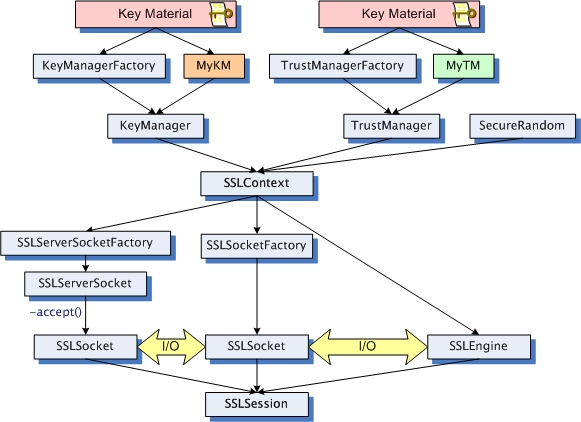
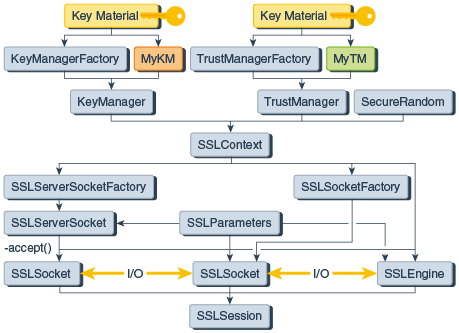
20250103

diff --git a/os/进程阻塞与唤醒实例分析.md b/os/进程阻塞与唤醒实例分析.md
@@ -1,10 +1,64 @@
 # 进程阻塞与唤醒实例分析
 {docsify-updated}
 
-我们重点来跟踪一下当进行 `read()` 调用时，如果数据不可读，进程是如何被阻塞和唤醒的。
+我们重点来跟踪一下当进行 `read()` 调用时，如果数据不可读，进程是如何被阻塞和唤醒的。基于[linux-0.01](https://www.kernel.org/pub/linux/kernel/Historic/)
+
+## PCB的内核数据结构-task_struct
+```
+struct task_struct {
+/* these are hardcoded - don't touch */
+	long state;	/* -1 unrunnable, 0 runnable, >0 stopped */
+	long counter;
+	long priority;
+	long signal;
+	fn_ptr sig_restorer;
+	fn_ptr sig_fn[32];   //signal handler pointer
+/* various fields */
+	int exit_code;
+	unsigned long end_code,end_data,brk,start_stack;
+	long pid,father,pgrp,session,leader;
+	unsigned short uid,euid,suid;
+	unsigned short gid,egid,sgid;
+	long alarm;
+	long utime,stime,cutime,cstime,start_time;
+	unsigned short used_math;
+/* file system info */
+	int tty;		/* -1 if no tty, so it must be signed */
+	unsigned short umask;
+	struct m_inode * pwd;
+	struct m_inode * root;
+	unsigned long close_on_exec;
+	struct file * filp[NR_OPEN];
+/* ldt for this task 0 - zero 1 - cs 2 - ds&ss */
+	struct desc_struct ldt[3];
+/* tss for this task */
+	struct tss_struct tss;
+};
+```
+
+内核定义了几种状态：
+```
+#define TASK_RUNNING		0
+#define TASK_INTERRUPTIBLE	1
+#define TASK_UNINTERRUPTIBLE	2
+#define TASK_ZOMBIE		3
+#define TASK_STOPPED		4
+```
+
+| 特性	| TASK_INTERRUPTIBLE | TASK_UNINTERRUPTIBLE |
+| :---        |    :----:   |          ---: |
+|信号响应 |	可以响应信号并被唤醒 |	不响应信号（Ctrl-C无效） |
+|唤醒方式 |	信号或等待的事件发生 |	仅等待的事件发生 |
+|适用场景 |	用户交互、非关键操作 |	关键操作、硬件等待 |
+|资源占用 |	更灵活，减少资源长时间占用 |	更安全，避免关键任务中断 |
+
+为什么需要 TASK_UNINTERRUPTIBLE？
+
+1. 避免资源不一致:在某些关键场景中，如果进程被中断，可能导致资源状态不一致或系统崩溃。例如，硬件设备驱动程序与设备交互时需要保持不可中断状态。
+2. 硬件等待:某些硬件操作需要严格的时序或完整性，不能被信号中断。
 
 ## 一个进程是如何阻塞的
-系统调用的定义头文件： `/include/linux/sys.h` , 我们从常见的 `read()` 调用 `extern int sys_read()` 入手分析。
+系统调用的定义头文件： `/include/linux/sys.h` , 我们从常见的 `read()` 系统调用对应的函数 `extern int sys_read()` 入手分析。
 
 实现在 `fs/read_write.c` 文件中：
 ```
@@ -90,7 +144,7 @@ struct buffer_head * bread(int dev,int block)
 }
 ```
 
-继续到 `getblk(dev,block)`:
+继续跟踪到 `getblk(dev,block)`, 这个函数主要作用是获取一个 `buffer_head` 来作为读取数据的缓冲区，如果没有可用的缓冲区会阻塞线程。
 ```
 /*
  * Ok, this is getblk, and it isn't very clear, again to hinder
@@ -150,6 +204,7 @@ repeat:
 }
 ```
 
+### 关键阻塞函数
 ```
 static inline void wait_on_buffer(struct buffer_head * bh)
 {
@@ -179,5 +234,216 @@ void sleep_on(struct task_struct **p)
 
 <center><img src="pics/block-process.png" width="70%"></center>
 
+这里注意一下，在在调用 `schedule()` 后，就会执行进程上下文切换，也就是说换个进程执行，因为当前进程已经设置为休眠状态。所以，此时的状态是 tmp（进程栈上）指向的上一个等待的进程。当前进程被唤醒后，继续执行 `schedule()` 后边的代码，会将 tmp 指向进程的状态设置为运行态（上图中第4步）。下图描述了多个进程等待同一个 `buffer_head` 时的栈帧情况：
+
+<center><img src="pics/block-process2.png" width="20%"></center>
+
+
+如果获取到缓冲区，就会进入关键的启动 IO 操作的步骤 `ll_rw_block(READ,bh)` ：
+```
+static blk_fn rd_blk[]={
+	NULL,		/* nodev */
+	NULL,		/* dev mem */
+	NULL,		/* dev fd */
+	rw_hd,		/* dev hd */
+	NULL,		/* dev ttyx */
+	NULL,		/* dev tty */
+	NULL};		/* dev lp */
+
+void ll_rw_block(int rw, struct buffer_head * bh)
+{
+	blk_fn blk_addr;
+	unsigned int major;
+
+	if ((major=MAJOR(bh->b_dev)) >= NR_BLK_DEV || !(blk_addr=rd_blk[major]))
+		panic("Trying to read nonexistent block-device");
+	blk_addr(rw, bh);
+}
+```
+
+`blk_addr` 是一个函数指针，指向 `rw_hd` 函数：
+```
+void rw_hd(int rw, struct buffer_head * bh)
+{
+	unsigned int block,dev;
+	unsigned int sec,head,cyl;
+
+	block = bh->b_blocknr << 1;
+	dev = MINOR(bh->b_dev);
+	if (dev >= 5*NR_HD || block+2 > hd[dev].nr_sects)
+		return;
+	block += hd[dev].start_sect;
+	dev /= 5;
+	__asm__("divl %4":"=a" (block),"=d" (sec):"0" (block),"1" (0),
+		"r" (hd_info[dev].sect));
+	__asm__("divl %4":"=a" (cyl),"=d" (head):"0" (block),"1" (0),
+		"r" (hd_info[dev].head));
+	rw_abs_hd(rw,dev,sec+1,head,cyl,bh);
+}
+
+
+void rw_abs_hd(int rw,unsigned int nr,unsigned int sec,unsigned int head,
+	unsigned int cyl,struct buffer_head * bh)
+{
+	struct hd_request * req;
+
+	if (rw!=READ && rw!=WRITE)
+		panic("Bad hd command, must be R/W");
+	lock_buffer(bh);
+repeat:
+	for (req=0+request ; req<NR_REQUEST+request ; req++)
+		if (req->hd<0)
+			break;
+	if (req==NR_REQUEST+request) {
+		sleep_on(&wait_for_request);
+		goto repeat;
+	}
+	req->hd=nr;
+	req->nsector=2;
+	req->sector=sec;
+	req->head=head;
+	req->cyl=cyl;
+	req->cmd = ((rw==READ)?WIN_READ:WIN_WRITE);
+	req->bh=bh;
+	req->errors=0;
+	req->next=NULL;
+	add_request(req);
+	wait_on_buffer(bh);
+}
+
+
+static void add_request(struct hd_request * req)
+{
+	struct hd_request * tmp;
+
+	if (req->nsector != 2)
+		panic("nsector!=2 not implemented");
+/*
+ * Not to mess up the linked lists, we never touch the two first
+ * entries (not this_request, as it is used by current interrups,
+ * and not this_request->next, as it can be assigned to this_request).
+ * This is not too high a price to pay for the ability of not
+ * disabling interrupts.
+ */
+	sorting=1;
+	if (!(tmp=this_request))
+		this_request=req;
+	else {
+		if (!(tmp->next))
+			tmp->next=req;
+		else {
+			tmp=tmp->next;
+			for ( ; tmp->next ; tmp=tmp->next)
+				if ((IN_ORDER(tmp,req) ||
+				    !IN_ORDER(tmp,tmp->next)) &&
+				    IN_ORDER(req,tmp->next))
+					break;
+			req->next=tmp->next;
+			tmp->next=req;
+		}
+	}
+	sorting=0;
+/*
+ * NOTE! As a result of sorting, the interrupts may have died down,
+ * as they aren't redone due to locking with sorting=1. They might
+ * also never have started, if this is the first request in the queue,
+ * so we restart them if necessary.
+ */
+	if (!do_hd)
+		do_request();
+}
+
+
+static void do_request(void)
+{
+	int i,r;
+
+	if (sorting)
+		return;
+	if (!this_request) {
+		do_hd=NULL;
+		return;
+	}
+	if (this_request->cmd == WIN_WRITE) {
+		hd_out(this_request->hd,this_request->nsector,this_request->
+			sector,this_request->head,this_request->cyl,
+			this_request->cmd,&write_intr);
+		for(i=0 ; i<3000 && !(r=inb_p(HD_STATUS)&DRQ_STAT) ; i++)
+			/* nothing */ ;
+		if (!r) {
+			reset_hd(this_request->hd);
+			return;
+		}
+		port_write(HD_DATA,this_request->bh->b_data+
+			512*(this_request->nsector&1),256);
+	} else if (this_request->cmd == WIN_READ) {
+		hd_out(this_request->hd,this_request->nsector,this_request->
+			sector,this_request->head,this_request->cyl,
+			this_request->cmd,&read_intr);
+	} else
+		panic("unknown hd-command");
+}
+```
+
+### 真正启动 IO 操作
+启动 IO 处理，并设置中断处理函数：
+```
+static void hd_out(unsigned int drive,unsigned int nsect,unsigned int sect,
+		unsigned int head,unsigned int cyl,unsigned int cmd,
+		void (*intr_addr)(void))
+{
+	register int port asm("dx");
+
+	if (drive>1 || head>15)
+		panic("Trying to write bad sector");
+	if (!controller_ready())
+		panic("HD controller not ready");
+	do_hd = intr_addr;
+	outb(_CTL,HD_CMD);
+	port=HD_DATA;
+	outb_p(_WPCOM,++port);
+	outb_p(nsect,++port);
+	outb_p(sect,++port);
+	outb_p(cyl,++port);
+	outb_p(cyl>>8,++port);
+	outb_p(0xA0|(drive<<4)|head,++port);
+	outb(cmd,++port);
+}
+```
+
+最终，会安装下边的**中断处理函数**，当IO完成后，会调用下边的处理函数：
+```
+static void read_intr(void)
+{
+	if (win_result()) {
+		bad_rw_intr();
+		return;
+	}
+	port_read(HD_DATA,this_request->bh->b_data+
+		512*(this_request->nsector&1),256);
+	this_request->errors = 0;
+	if (--this_request->nsector)
+		return;
+	this_request->bh->b_uptodate = 1;
+	this_request->bh->b_dirt = 0;
+	wake_up(&wait_for_request);
+	unlock_buffer(this_request->bh);
+	this_request->hd = -1;
+	this_request=this_request->next;
+	do_request();
+}
+```
 
 ## 唤醒
+在上述的中断处理函数中， `wake_up(&wait_for_request);` 调用了唤醒函数：
+```
+void wake_up(struct task_struct **p)
+{
+	if (p && *p) {
+		(**p).state=0; // 将 PCB 的状态设置为 RUNNING
+		*p=NULL;
+	}
+}
+```
+
+唤醒函数非常简单，就是将等待进程的状态改成运行状态，这样在调度时就会被调度。唤醒的进程会继续执行 `schedule()` 函数之后的代码，唤醒等待列表中的上一个等待进程，依次类推。

diff --git a/network/https协议原理.md b/network/https协议原理.md
@@ -3,17 +3,8 @@
 > https://help.aliyun.com/document_detail/160093.html  
 > https://stackoverflow.com/questions/27388583/relationship-between-key-store-trust-store-and-certificate
 
-- [HTTPS及Java支持](#https及java支持)
-	- [HTTPS协议原理](#https协议原理)
-	- [双向认证](#双向认证)
-	- [nginx使用自签名证书配https](#nginx使用自签名证书配https)
-	- [java 对 Https 的支持](#java-对-https-的支持)
-		- [KeyManager](#keymanager)
-		- [TrustManager](#trustmanager)
-		- [启用 Java SSL 调试日志](#启用-java-ssl-调试日志)
-	- [问题总结](#问题总结)
 
-### HTTPS协议原理
+## HTTPS协议原理
 
 思考一下通信过程应该要处理的问题：
 
@@ -40,7 +31,7 @@
 5. 服务端用自己的私钥（server.key）去解密这个密文，得到了密钥R
 6. 服务端和客户端在后续通讯过程中就使用这个密钥R进行通信了。
 
-### 双向认证
+## 双向认证
 <center><img src="pics/https-2.png" width="60%"></center>
 
 1. 客户端发起建立HTTPS连接请求，将SSL协议版本的信息发送给服务端；
@@ -55,7 +46,7 @@
 10. 服务端和客户端在后续通讯过程中就使用这个密钥R进行通信了。
 
 
-### nginx使用自签名证书配https
+## nginx使用自签名证书配https
 我们使用xca工具来制作证书，先下载安装xca工具，地址是http://xca.hohnstaedt.de/。
 首先要制作一张CA证书，然后用CA证书签发一张或多张证书，每张证书模拟每个网站下发的证书，里边存放的就是网站服务器端的公钥及网址等信息。制作每张证书的时候，都需要一对公私钥密码。下图是制作好的证书，其中一张是CA证书，用来签发其它证书：
 <center><img src="pics/cert_generation.png" width=60%></center>
@@ -92,7 +83,7 @@ nginx配置好后，将 ca_wang.crt 导入到 chrome 浏览器的信任根证书
 然后重启chrome以https方式访问 localhost，就会发现是信任的网站了：
 <center><img src="pics/chrome_https.png"></center>
 
-### java 对 Https 的支持
+## java 对 Https 的支持
 与浏览器和操作系统类似，JRE的安装目录下也保存了一份默认可信的CA证书列表，一般在 jre/lib/security/cacerts文件中，使用JDK自带的 keytool 工具可以查看其中的内容，默认密码为： changeit.
 + `keytool -import -alias ca_wang -keystore cacerts -file ca_wang.crt`:从ca_wang.crt的文件中导入证书到cacerts的 TrustStore ，别名为 ca_wang
 + `keytool -list -cacerts -alias ca_wang`:显示指定别名为 ca_wang 的 TrustStore 证书信息
@@ -104,12 +95,12 @@ Java 平台下，证书尝尝被存储为 keystore 文件中，上面的 cacerts
 keystore 只是一种文件格式而已，实际上在 Java 的世界里 KeyStore 文件分为两种： keystore 和 truststore， keystore 保存公私钥，用来解密或者签名； truststore 保存信任的证书列表，访问 https 时，对被访问者进行认证，确定它是可信任的。
 
 Java 使用以下主要类和接口来支持安全传输：
-<center><img src="pics/jsse.jpg" width="40%"/></center>
+<center><img src="pics/jsse.jpg" width="50%"/></center>
 
-#### KeyManager
-KeyManager 的主要职责是选择最终将被发送到远程主机的认证凭证。为了向远程对等体认证自己（本地安全套接字对等体），你必须用一个或多个KeyManager对象初始化一个SSLContext对象。你必须为每个将被支持的不同认证机制传递一个KeyManager。如果在SSLContext的初始化中传递了null，那么将创建一个空的KeyManager。如果使用内部默认上下文（例如，由SSLSocketFactory.getDefault()或SSLServerSocketFactory.getDefault()创建的SSLContext），那么将会创建一个默认的KeyManager
+### KeyManager
+`KeyManager` 的主要职责是选择最终将被发送到远程主机的认证凭证。为了向远程对等体认证自己（本地安全套接字对等体），你必须用一个或多个KeyManager对象初始化一个SSLContext对象。你必须为每个将被支持的不同认证机制传递一个KeyManager。如果在SSLContext的初始化中传递了null，那么将创建一个空的KeyManager。如果使用内部默认上下文（例如，由SSLSocketFactory.getDefault()或SSLServerSocketFactory.getDefault()创建的SSLContext），那么将会创建一个默认的KeyManager
 
-#### TrustManager
+### TrustManager
 TrustManager 的主要责任是确定所提交的认证凭证是否应该被信任。如果凭证不被信任，那么连接将被终止。为了验证安全套接字对等体的远程身份，你必须用一个或多个TrustManager对象初始化一个SSLContext对象。你必须为每个支持的认证机制传递一个TrustManager。如果在SSLContext的初始化中传递了null，那么将为你创建一个信任管理器。通常，一个信任管理器支持基于X.509公钥证书的认证（例如，X509TrustManager）。一些安全套接字的实现也可能支持基于共享秘钥、Kerberos或其他机制的认证。
 
 TrustManager对象可以由TrustManagerFactory创建，或者通过提供接口的具体实现来创建。
@@ -118,11 +109,11 @@ TrustManager 和 KeyManager 之间的关系
 + TrustManager决定远程认证凭证（以及连接）是否应该被信任(通常是认证通信的对方)。
 + KeyManager决定向远程主机发送哪些认证凭证（通常是提供让对方认证的凭证）。
 
-#### 启用 Java SSL 调试日志
+### 启用 Java SSL 调试日志
 + 命令行参数：`java -Djavax.net.debug=ssl -jar MyApp.jar`
 + 使用系统参数：`System.setProperty("javax.net.debug", "ssl");`
 
-### 问题总结
+## 问题总结
 当遇到 https 证书验证失败时，你需要选择下面三种方法中的一个来解决：
 + Configure SSLContext with a TrustManager that accepts any certificate (see below).  
 	```

diff --git a/linux/systemd.md b/linux/systemd.md
@@ -23,6 +23,7 @@ WantedBy=multi-user.target
 4. `systemctl enable gtja-thrift-proxy`
 5. `systemctl start gtja-thrift-proxy`
 6. `systemctl status gtja-thrift-proxy`
+7. 修改了 service 文件之后，要重载： `systemctl daemon-reload`
 
 
 查看日志： `journalctl -xe`
